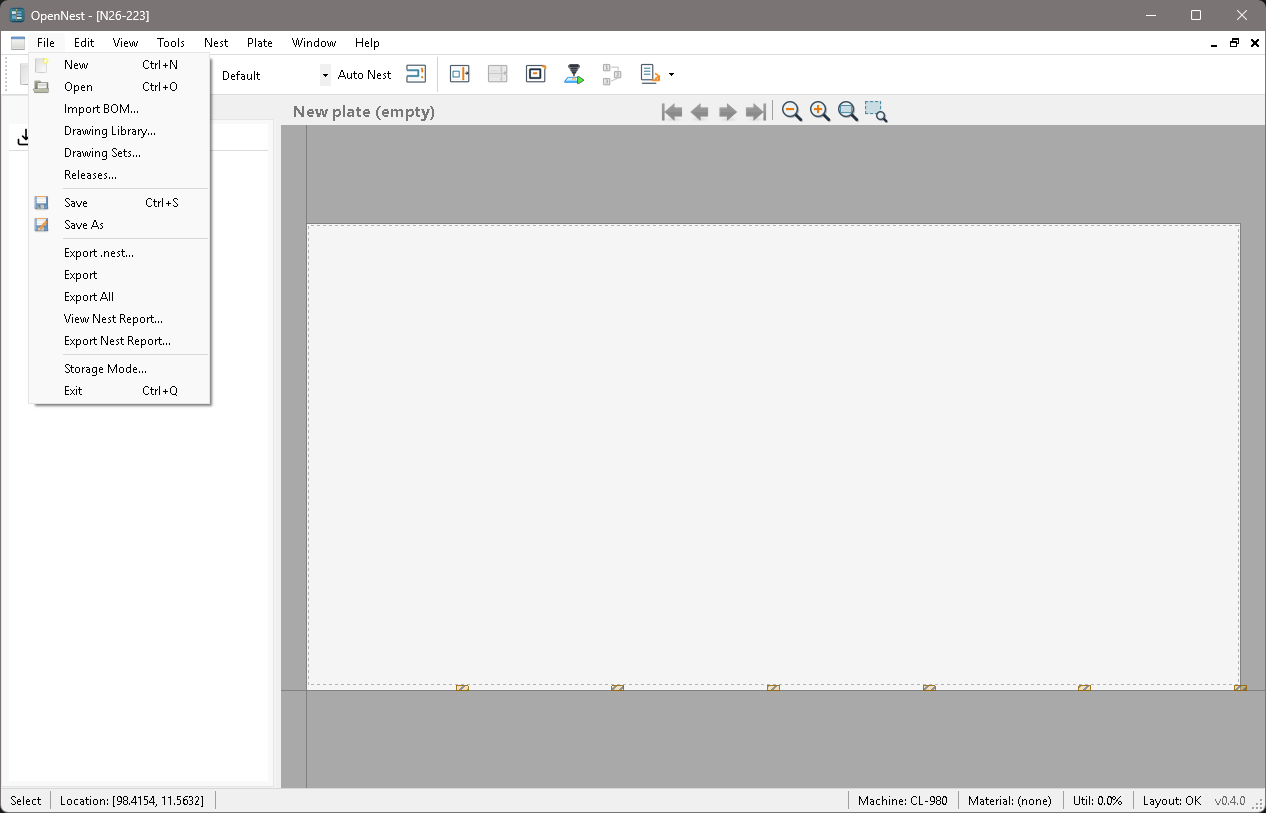
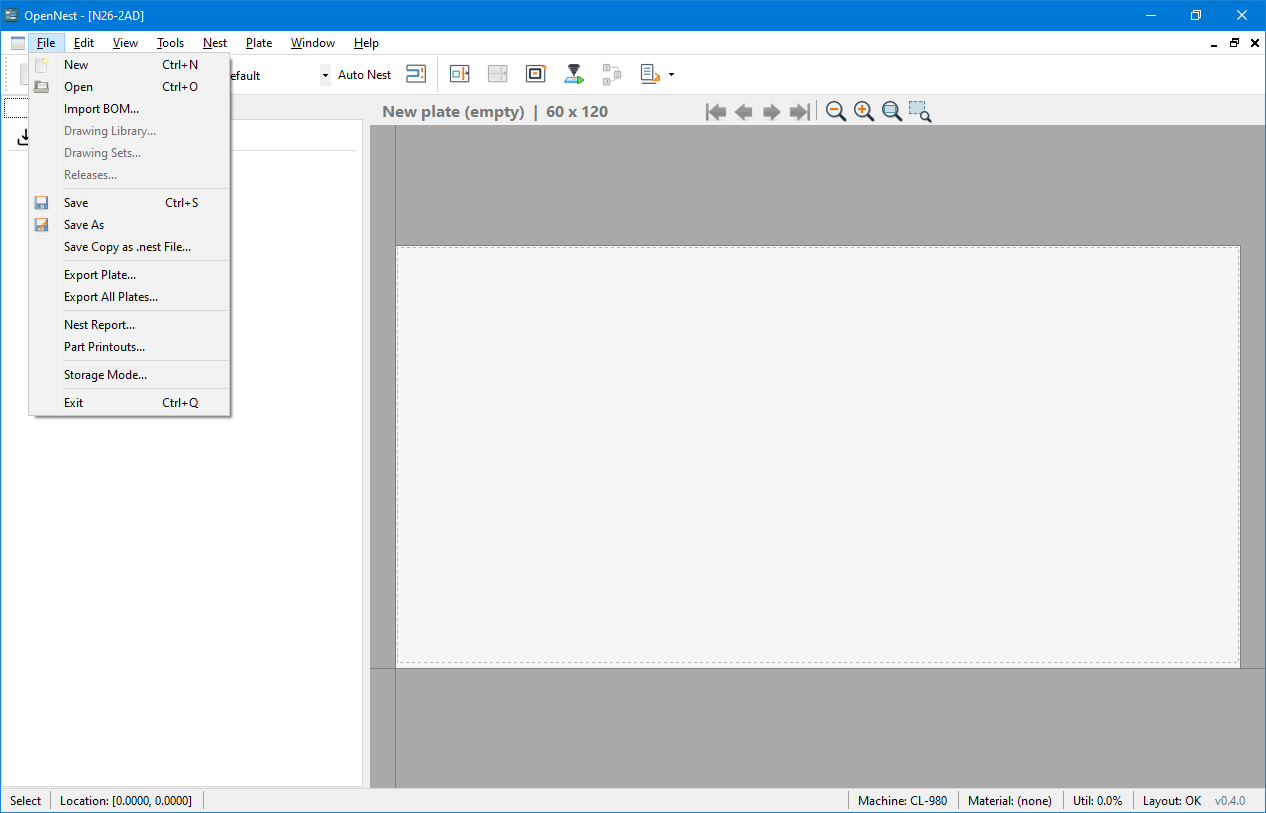
Use the regrouped File menu labels
OpenNest renamed its File menu output commands (Save Copy as .nest File...,
Export Plate..., Export All Plates..., Nest Report..., Part Printouts...)
and dropped Export Nest Report..., since the report window's Save As already
keeps the PDF. Recapture the File menu picture, which still showed the old
export block, and move the Storage Mode callout to its new spot.

diff --git a/docs/nest-settings.md b/docs/nest-settings.md
@@ -101,18 +101,17 @@ OpenNest saves them for next time. In Database mode, machines and post settings 
 
 - **File > Save** (++ctrl+s++) and **Save As** save the nest: to a `.nest` file in File
   mode, or to the [nest server](nest-server.md) in Database mode.
-- **File > Export .nest...** writes a `.nest` file in either mode, to share or back up.
-  It doesn't change where **Save** goes.
-- **File > Export** saves the current plate as a **DXF file**, an **SVG file**, an
-  **image** as it's shown on screen (`.jpg`), or a text file of each part's **locations
-  and rotations**.
-  **Export All** does the same for every plate in turn.
-- **File > View Nest Report...** opens a PDF report of the whole nest in a window, with
-  **Save As...** and **Print...**: each sheet layout, every part with its size, weight,
-  and how many are needed and nested, utilization and any shortfall (marked **SHORT**).
-  **File > Export Nest Report...** saves the same report as a file. Neither posts or
-  checks the nest.
-- **File > View Part Printouts...** opens a one-page printout for every part in the
+- **File > Save Copy as .nest File...** writes a `.nest` file in either mode, to share
+  or back up. It doesn't change where **Save** goes.
+- **File > Export Plate...** saves the current plate as a **DXF file**, an **SVG file**,
+  an **image** as it's shown on screen (`.jpg`), or a text file of each part's
+  **locations and rotations**.
+  **Export All Plates...** does the same for every plate in turn.
+- **File > Nest Report...** opens a PDF report of the whole nest in a window, with
+  **Save As...** to keep it as a file and **Print...**: each sheet layout, every part
+  with its size, weight, and how many are needed and nested, utilization and any
+  shortfall (marked **SHORT**). The report doesn't post or check the nest.
+- **File > Part Printouts...** opens a one-page printout for every part in the
   nest, with **Save As...** and **Print...**: the part drawn to fit the page with its
   overall dimensions, its size,
   material, thickness, cut length, pierce count, area, weight and quantity needed. To

diff --git a/docs/nest-server.md b/docs/nest-server.md
@@ -28,8 +28,8 @@ This page has two parts:
 In either mode you can:
 
 - Drag `.nest` files onto the main window to open them from disk.
-- Use **File > Export .nest...** to write a local copy to share or back up. Exporting
-  doesn't change where **Save** goes.
+- Use **File > Save Copy as .nest File...** to write a local copy to share or back up.
+  The copy doesn't change where **Save** goes.
 
 ## Set up the server {#set-up-the-server}
 
@@ -120,7 +120,7 @@ for example `http://192.168.1.20:8090`.
 ![File menu with the server commands](images/server-file-menu.png)
 
 1. **Drawing Library...**, **Drawing Sets...** and **Releases...** open the shared
-   library. They need Database mode.
+   library. They need Database mode, so they're grayed out until you switch.
 2. **Storage Mode...** switches between File and Database mode.
 
 Choose **File > Storage Mode...**:
